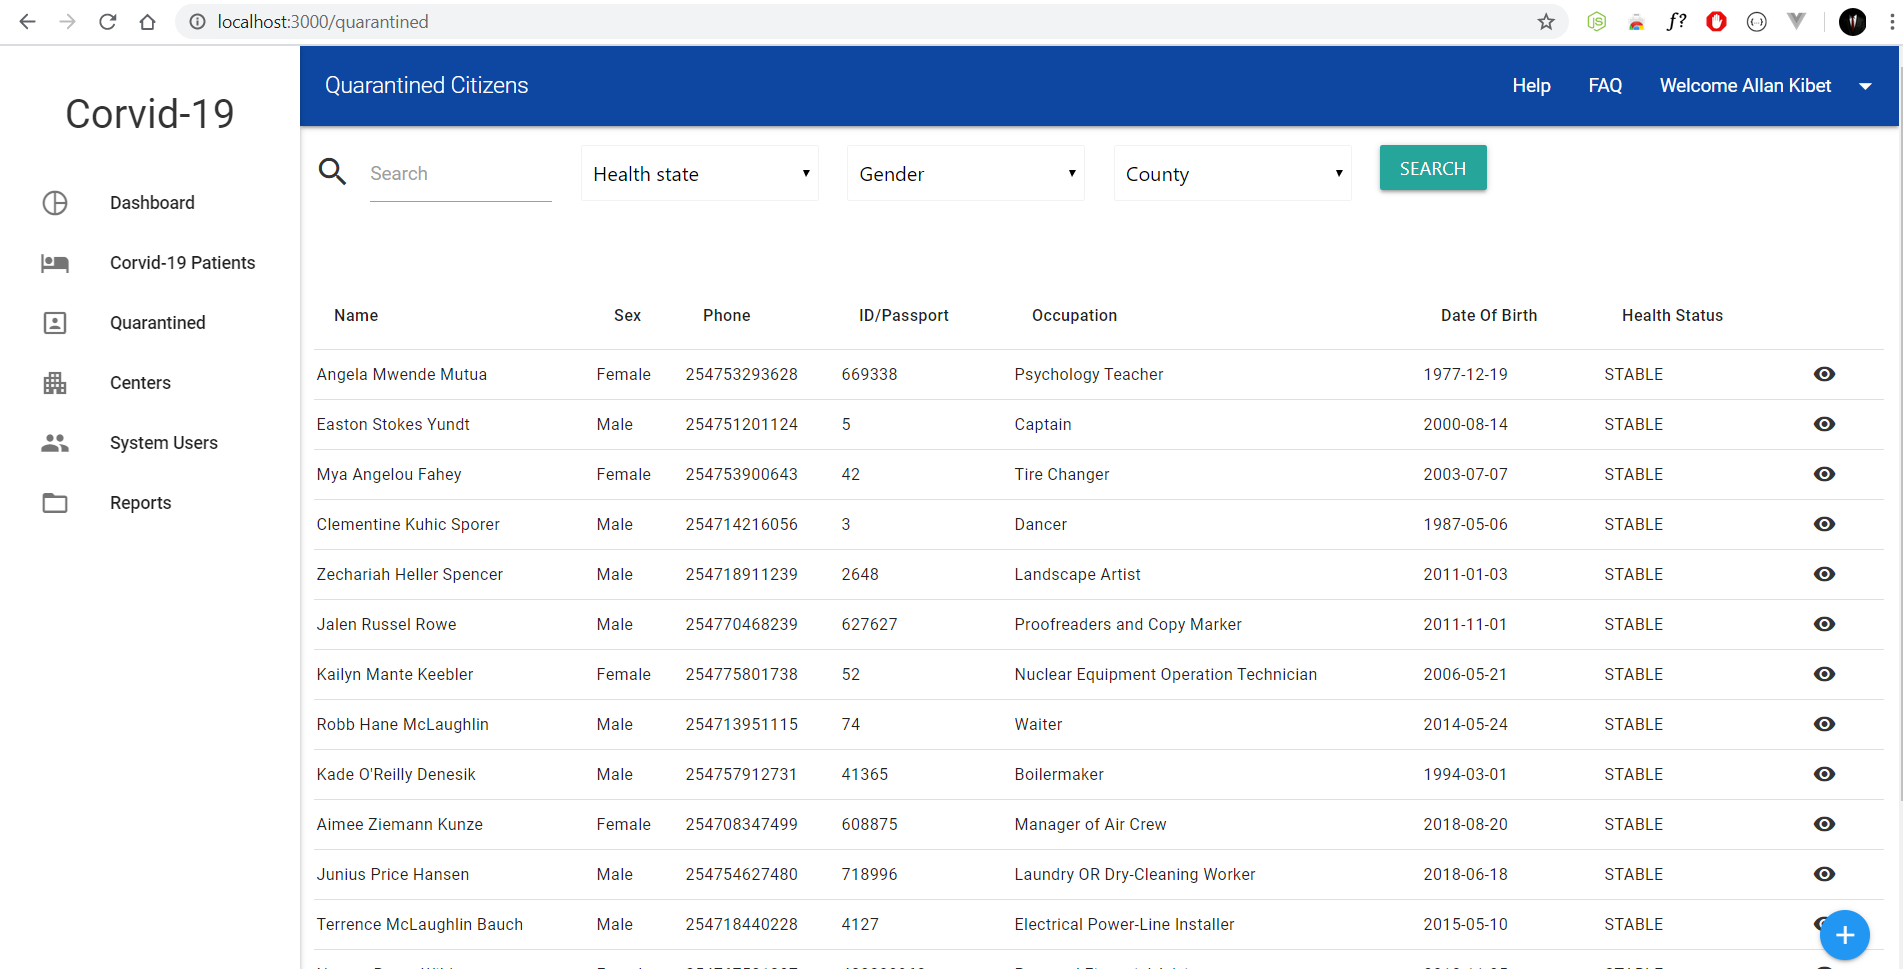
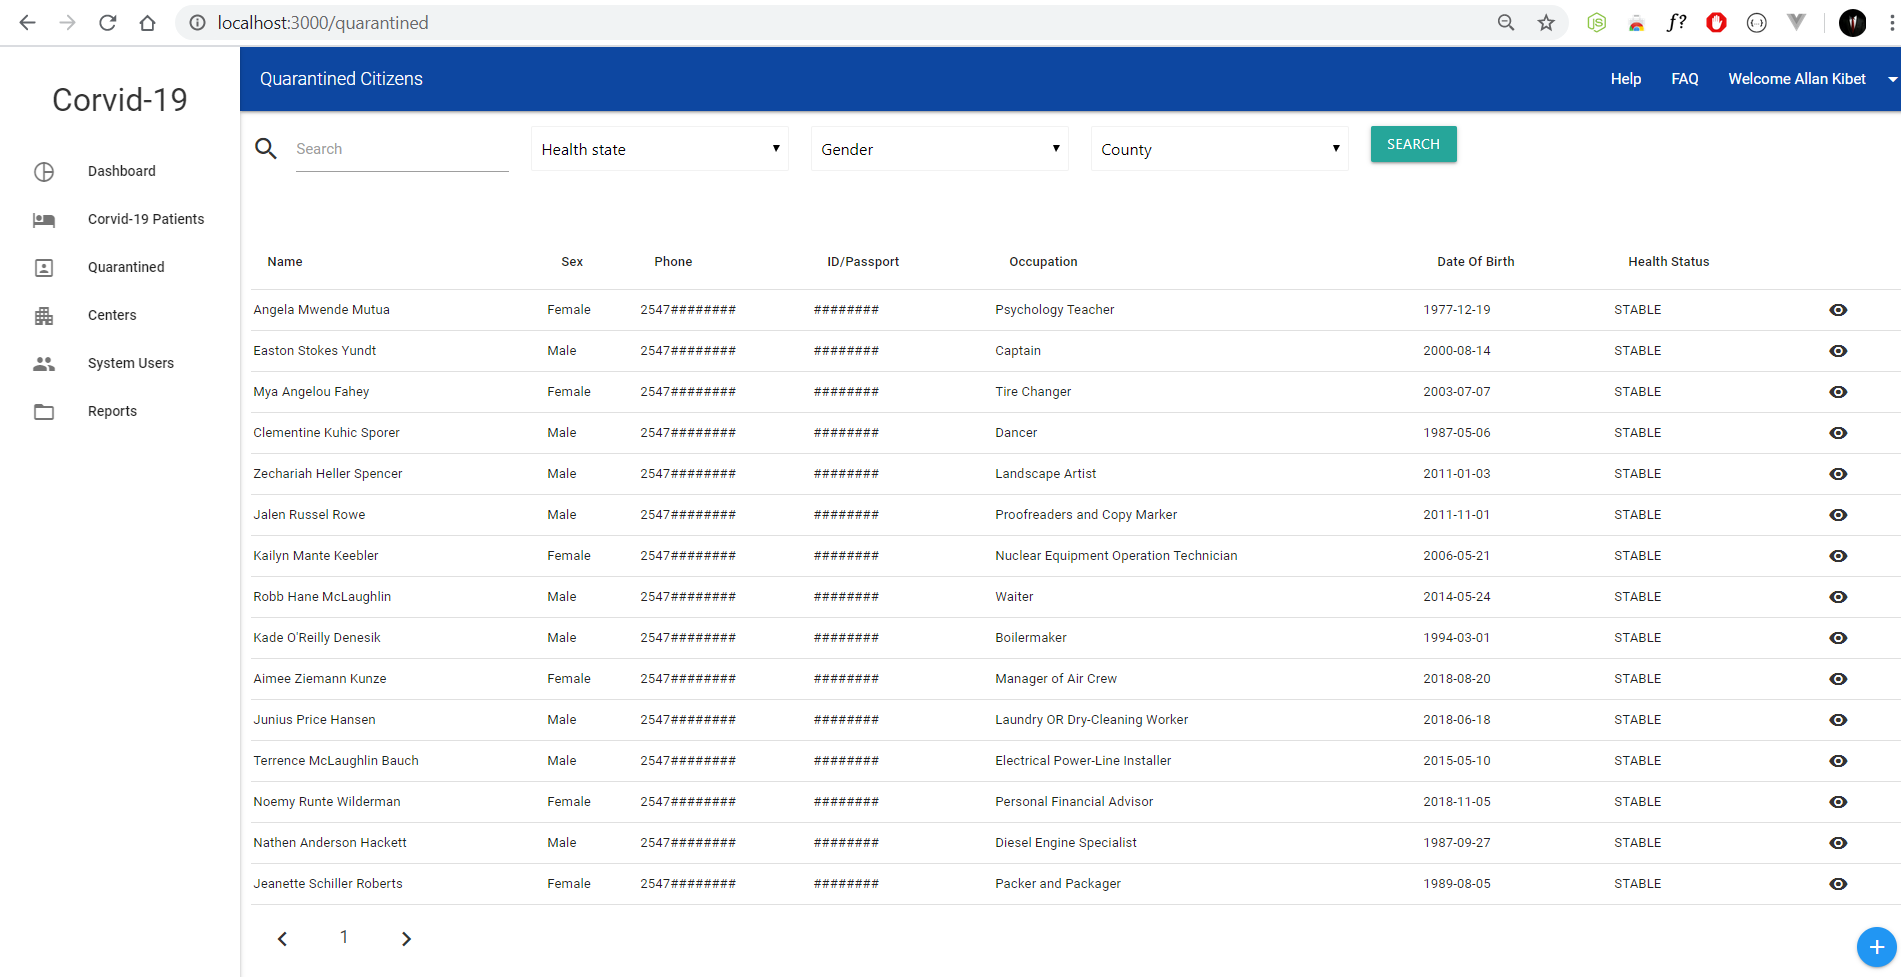
mask data

diff --git a/src/components/Quarantined.js b/src/components/Quarantined.js
@@ -90,8 +90,8 @@ class Quarantined extends React.Component {
                 ${item.surname}  
                 ${item.last_name}`}</TableCell>
                 <TableCell>{(item.sex === 'M') ? 'Male' : 'Female'}</TableCell>
-                <TableCell>{item.phone}</TableCell>
-                <TableCell>{item.national_id}</TableCell>
+                <TableCell>2547########</TableCell>
+                <TableCell>########</TableCell>
                 <TableCell>{item.occupation}</TableCell>
                 <TableCell>{item.date_of_birth}</TableCell>
                 <TableCell>{item.current_corvid_state}</TableCell>
